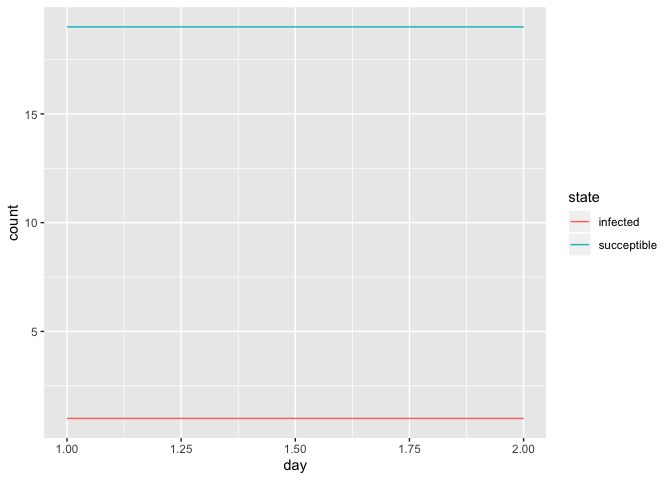
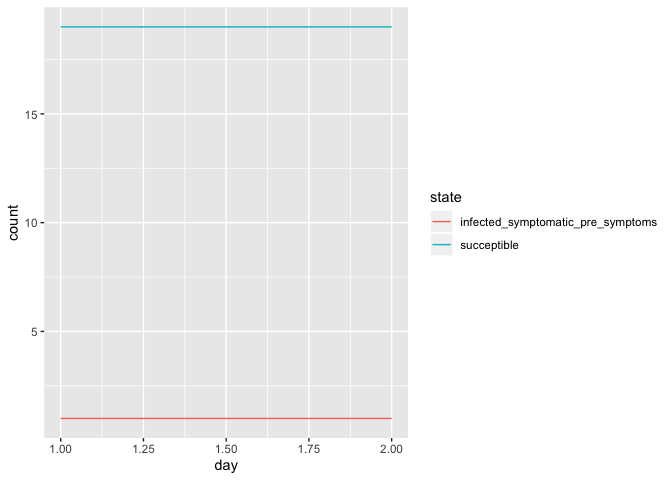
add more states and initial parameters

diff --git a/Modeling-code.md b/Modeling-code.md
@@ -5,14 +5,53 @@ Modeling code
 ## Initial Parameters
 
 ``` r
-initial_population_size = 20
+## BIG TODO: add citations for these numbers
+
+initial_population_size = 20 # TODO - choose bigger number later
+hospital_bed_capacity = 100 #TODO - fill in with real number later
+
+probability_symptomatic = 2/3
+probability_asymptomatic = 1 - probability_symptomatic
+
+# TODO: break this out into it's own code chunk with explanation? Weighted average, solved equations to get 
+basic_reproductive_number = 2.4
+symptomatic_reproductive_number = basic_reproductive_number*(6/5)
+asymptomatic_reproductive_number = basic_reproductive_number*(3/5)
+
+time_until_infectious = 4.5 # This is figured from the incubation period, and rounded down from 4.6 so I can do steps in half-days.
+
+# For the asymptomatic types
+asymptomatic_time_from_infectious_to_recovery = 4 # This is figured from the generation time (confusing). Should this be longer??
+
+# For the symptomatic types
+time_infectious_before_symptom_onset = 0.5
+time_from_symptom_onset_to_recovery = 3.5
+
+time_until_seeking_care = 5 # This is the number of days after symptom onset that people seek hospital care if they need it, on average
+time_in_hospital_bed = 10.5
+time_until_death_if_no_care = 10
 ```
 
 ## States
 
 ``` r
-INFECTED = "infected"
 SUCCEPTIBLE = "succeptible"
+
+INFECTED_ASYMPTOMATIC = "infected_asymptomatic"
+INFECTIOUS_ASYMPTOMATIC = "infectious_asymptomatic"
+
+INFECTED_SYMPTOMATIC_PRE_SYMPTOMS = "infected_symptomatic_pre_symptoms"
+INFECTIOUS_SYMPTOMATIC_PRE_SYMPTOMS = "infectious_symptomatic_pre_symptoms"
+
+SYMPTOMATIC_NEED_HOSPITAL = "symptomatic_need_hospital"
+SYMPTOMATIC_DONT_NEED_HOSPITAL = "symptomatic_dont_need_hospital"
+
+NEED_HOSPITAL_SEEK_CARE = "need_hospital_seek_care"
+NEED_HOSPITAL_DONT_SEEK_CARE = "need_hospital_dont_seek_care"
+
+GET_HOSPITAL_CARE = "get_hospital_care"
+DONT_GET_NEEDED_CARE = "dont_get_needed_care"
+
 RECOVERED = "recovered"
 DEAD = "dead"
 ```
@@ -31,7 +70,7 @@ change_state = function(prev_state){
 ``` r
 # TODO: create the population according to demographic markers, and randomly assign the infected person.
 create_initial_population_with_one_infected = function(size){
-  one_infected = as.factor(c(INFECTED))
+  one_infected = as.factor(c(INFECTED_SYMPTOMATIC_PRE_SYMPTOMS))
   others_succeptible = rep(as.factor(c(SUCCEPTIBLE)), size - 1)
   
   fct_c(one_infected, others_succeptible)
@@ -41,11 +80,17 @@ create_initial_population_with_one_infected = function(size){
 create_initial_population_with_one_infected(initial_population_size)
 ```
 
-    ##  [1] infected    succeptible succeptible succeptible succeptible succeptible
-    ##  [7] succeptible succeptible succeptible succeptible succeptible succeptible
-    ## [13] succeptible succeptible succeptible succeptible succeptible succeptible
-    ## [19] succeptible succeptible
-    ## Levels: infected succeptible
+    ##  [1] infected_symptomatic_pre_symptoms succeptible                      
+    ##  [3] succeptible                       succeptible                      
+    ##  [5] succeptible                       succeptible                      
+    ##  [7] succeptible                       succeptible                      
+    ##  [9] succeptible                       succeptible                      
+    ## [11] succeptible                       succeptible                      
+    ## [13] succeptible                       succeptible                      
+    ## [15] succeptible                       succeptible                      
+    ## [17] succeptible                       succeptible                      
+    ## [19] succeptible                       succeptible                      
+    ## Levels: infected_symptomatic_pre_symptoms succeptible
 
 This is a table with each row representing one person in the population.
 The first few columns include demographic and other information about a
@@ -66,28 +111,28 @@ population
 ```
 
     ## # A tibble: 20 x 3
-    ##    person_ids day_1       day_2      
-    ##         <int> <fct>       <fct>      
-    ##  1          1 infected    infected   
-    ##  2          2 succeptible succeptible
-    ##  3          3 succeptible succeptible
-    ##  4          4 succeptible succeptible
-    ##  5          5 succeptible succeptible
-    ##  6          6 succeptible succeptible
-    ##  7          7 succeptible succeptible
-    ##  8          8 succeptible succeptible
-    ##  9          9 succeptible succeptible
-    ## 10         10 succeptible succeptible
-    ## 11         11 succeptible succeptible
-    ## 12         12 succeptible succeptible
-    ## 13         13 succeptible succeptible
-    ## 14         14 succeptible succeptible
-    ## 15         15 succeptible succeptible
-    ## 16         16 succeptible succeptible
-    ## 17         17 succeptible succeptible
-    ## 18         18 succeptible succeptible
-    ## 19         19 succeptible succeptible
-    ## 20         20 succeptible succeptible
+    ##    person_ids day_1                             day_2                           
+    ##         <int> <fct>                             <fct>                           
+    ##  1          1 infected_symptomatic_pre_symptoms infected_symptomatic_pre_sympto…
+    ##  2          2 succeptible                       succeptible                     
+    ##  3          3 succeptible                       succeptible                     
+    ##  4          4 succeptible                       succeptible                     
+    ##  5          5 succeptible                       succeptible                     
+    ##  6          6 succeptible                       succeptible                     
+    ##  7          7 succeptible                       succeptible                     
+    ##  8          8 succeptible                       succeptible                     
+    ##  9          9 succeptible                       succeptible                     
+    ## 10         10 succeptible                       succeptible                     
+    ## 11         11 succeptible                       succeptible                     
+    ## 12         12 succeptible                       succeptible                     
+    ## 13         13 succeptible                       succeptible                     
+    ## 14         14 succeptible                       succeptible                     
+    ## 15         15 succeptible                       succeptible                     
+    ## 16         16 succeptible                       succeptible                     
+    ## 17         17 succeptible                       succeptible                     
+    ## 18         18 succeptible                       succeptible                     
+    ## 19         19 succeptible                       succeptible                     
+    ## 20         20 succeptible                       succeptible
 
 ## Visualization
 
@@ -107,18 +152,23 @@ population_to_visualize =
   group_by(day, state) %>% 
   summarize(count = n())
 
+## NOTE:
+## For transitory states like "infected", the count represents how many people are infected on that day.
+## However, for a state like "dead", the count represents how many people total have died up until that point (because once you reach the "dead" state, you stay at that state forever).
+
+
 # remove this later, printing just for debugging
 population_to_visualize
 ```
 
     ## # A tibble: 4 x 3
     ## # Groups:   day [2]
-    ##     day state       count
-    ##   <dbl> <fct>       <int>
-    ## 1     1 infected        1
-    ## 2     1 succeptible    19
-    ## 3     2 infected        1
-    ## 4     2 succeptible    19
+    ##     day state                             count
+    ##   <dbl> <fct>                             <int>
+    ## 1     1 infected_symptomatic_pre_symptoms     1
+    ## 2     1 succeptible                          19
+    ## 3     2 infected_symptomatic_pre_symptoms     1
+    ## 4     2 succeptible                          19
 
 Graph the person-count of each state in a different color, with days on
 the x-axis.
